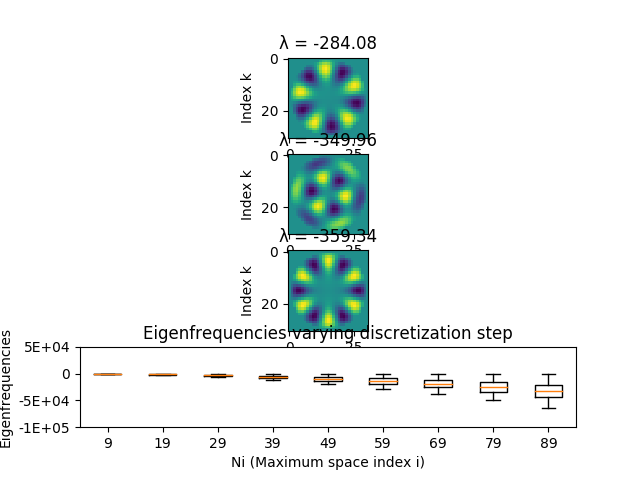
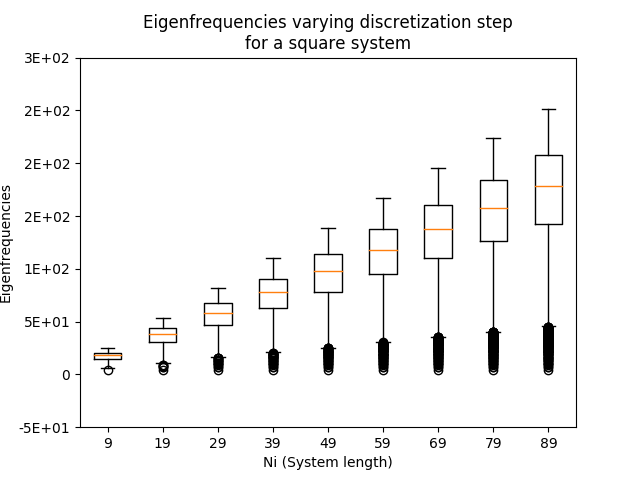
2b plots

diff --git a/set3/set3a.py b/set3/set3a.py
@@ -43,8 +43,8 @@ def plotMatrixM(M, Ni, Nj, fstart="", show=True, save=True):
     """Plot the given matrix M using plt.imshow."""
     plt.imshow(M.T)
     plt.title("Matrix M from Equation 9 for a {} x {} system".format(Ni, Nj))
-    plt.ylabel("Index k of matrix M")
-    plt.xlabel("Index l of matrix M")
+    plt.ylabel("Index k")
+    plt.xlabel("Index l")
     plt.colorbar()
     if save:
         plt.savefig("results/{0}matrix-m-{1}x{1}.png".format(fstart, Ni, Nj))
@@ -62,12 +62,16 @@ def get_smallest_eigenvalues(eigenvalues, n=10):
 
 
 def plot_spectrum_of_eigen_frequencies(
-        Nis=np.arange(9, 90, 10), load=True, save=True, show=True):
+        Nis=np.arange(9, 90, 10), Njs=np.arange(9, 90, 10), shape="square",
+        load=True, save=True, show=True):
     """3D: Plot eigenfrequencies while varying discretization step."""
+    plt.close()
     print("Nis = {}".format(Nis))
     L = 1
     eigenFrequencies = []
-    for Ni in Nis:
+    for i in range(len(Nis)):
+        Ni = Nis[i]
+        Nj = Njs[i]
         print("Ni = {}".format(Ni))
         fname = "data/3d-eigenfrequencies-{}.pickle".format(Ni)
         loaded = False
@@ -79,7 +83,7 @@ def plot_spectrum_of_eigen_frequencies(
             except:
                 print("Could not load {}".format(fname))
         if not loaded:
-            M = makeMatrixM(Ni + 2, Ni + 2, boundary)
+            M = makeMatrixM(Ni + 2, Nj + 2, boundary)
             dx = L / Ni
             answer = np.linalg.eig(M * 1/dx**2)
             eigenvalues = np.sort([x for x in answer[0] if x != 0])
@@ -87,9 +91,11 @@ def plot_spectrum_of_eigen_frequencies(
         if save:
             with open(fname, "wb") as f:
                 pickle.dump(eigenvalues, f)
-    plt.boxplot(eigenFrequencies, labels=[str(x) for x in Nis])
-    plt.title("Eigenfrequencies varying discretization step")
-    plt.xlabel("Ni (Maximum space index i)")
+    lam = [np.sqrt(k * -1) for k in eigenFrequencies]
+    plt.boxplot(lam, labels=[str(x) for x in Nis])
+    plt.title(("Eigenfrequencies varying discretization step" +
+               "\nfor a {} system".format(shape)))
+    plt.xlabel("Ni (System length)")
     plt.ylabel("Eigenfrequencies")
     locs, _ = plt.yticks()
     labels = ["0" if l == 0 else "{:.0E}".format(l) for l in locs]
@@ -114,12 +120,11 @@ def plot_eigenvectors_for_shapes(Ni_=29, Nj_=29, save=True, show=True,
 
     # For each system shape.
     for shape, Ni, Nj, boundary_f in [
-        ("square",      Ni_, Nj_,   boundary),
-        ("rectangular", Ni_, 2*Nj_, boundary),
+        # ("square",      Ni_, Nj_,   boundary),
+        # ("rectangular", Ni_, 2*Nj_, boundary),
         ("circular",    Ni_, Nj_,   circleBoundary)
     ]:
         M = makeMatrixM(Ni + 2, Nj + 2, boundary_f)
-        plt.close()
         plotMatrixM(M, Ni, Nj, save=False, show=show)
 
         eigenvalues_and_eigenvectors = np.linalg.eig(M * 1/dx**2)
@@ -127,25 +132,8 @@ def plot_eigenvectors_for_shapes(Ni_=29, Nj_=29, save=True, show=True,
         eigenvectors = eigenvalues_and_eigenvectors[1].T
         smallest_eigenvalues = get_smallest_eigenvalues(eigenvalues, n=20)
 
-        eig_names = set()
-        def notyet(i, eigenvalue):
-            """Eigenvalue not yet seen with same leading integer part?"""
-            eig_name = str(eigenvalue).split(".", 1)[0]
-            if eig_name in eig_names:
-                return False
-            eig_names.add(eig_name)
-            return True
-
-        # Remove duplicate eigenvalues.
-        smallest_eigenvalues = [x for x in smallest_eigenvalues if notyet(*x)]
-
-        plt.close()
         # For each of n smallest eigenvalues.
-        for plt_num, (i, eigenvalue) in enumerate(smallest_eigenvalues):
-
-            # Create a new figure for the subplots.
-            if plt_num % plots_per_subplot == 0:
-                fig, axes = plt.subplots(plots_per_subplot, 1)
+        for i, eigenvalue in smallest_eigenvalues:
 
             # Reshape eigenvector.
             eigenvector = eigenvectors[i]
@@ -158,37 +146,30 @@ def plot_eigenvectors_for_shapes(Ni_=29, Nj_=29, save=True, show=True,
                    "system size {} x {} saved to:\n\t{}").format(
                        eigenvalue, shape, Ni, Nj, fname))
             with open(fname, "w") as f:
-                json.dump(eigenvector.tolist(), f)
+                json.dump(eigenvector.real.tolist(), f)
 
             # Plot subplot.
-            ax = axes[plt_num % plots_per_subplot]
-            ax.imshow(eigenmatrix.real)
-            ax.set_ylabel("Index k")
-            ax.set_xlabel("Index l")
-            ax.set_title("λ = {:.2f}".format(eigenvalue))
+            plt.imshow(eigenmatrix.real)
+            plt.ylabel("Index k")
+            plt.xlabel("Index l")
+            plt.title(("Reshaped eigenvector for λ = {:.2f}\n " +
+                        "of a {} system on a {} x {} grid").format(
+                            eigenvalue.real, shape, Ni + 2, Nj + 2))
 
             # Save/show figure.
-            if plt_num % plots_per_subplot == plots_per_subplot - 1:
-
-                # TODO: Set subplot width.
-                # fig.set_figwidth(5)
-                # plt.subplots_adjust(wspace=0)
-
-                plt.suptitle(("Reshaped eigenvector for a\n " +
-                              "{} system on a {} x {} grid").format(
-                                    shape, Ni + 2, Nj + 2))
-                plt.tight_layout()
-                if save:
-                    plt.savefig(("results/3b-eigenvector-" +
-                                "shape-{}-eigenvector{:.2f}").format(
+            if save:
+                plt.savefig(("results/3b-eigenvector-" +
+                            "shape-{}-eigenvector{:.2f}").format(
                                 shape, eigenvalue).replace(".", "-") + ".png")
-                if show:
-                    plt.show()
+            if show:
+                plt.show()
 
 
 def animation_of_membrane(v0, K, A=1, B=1, c=1, dt=0.01, max_t=6.4,
                           show=True, save=True):
     """Animation for given initial vector v0 and constants."""
+    plt.close()
+
     lam = np.sqrt(K * -1)
     v = v0
     X = int(np.sqrt(len(v)))
@@ -235,7 +216,7 @@ if __name__ == "__main__":
     # plotMatrixM(M, Ni, Nj, fstart="3a-", show=True)
 
     # Question B.
-    plot_eigenvectors_for_shapes(Ni_=29, Nj_=29, show=True)
+    plot_eigenvectors_for_shapes(Ni_=49, Nj_=49, show=True)
 
     # Question D.
     plot_spectrum_of_eigen_frequencies(load=True, save=True, show=True)
